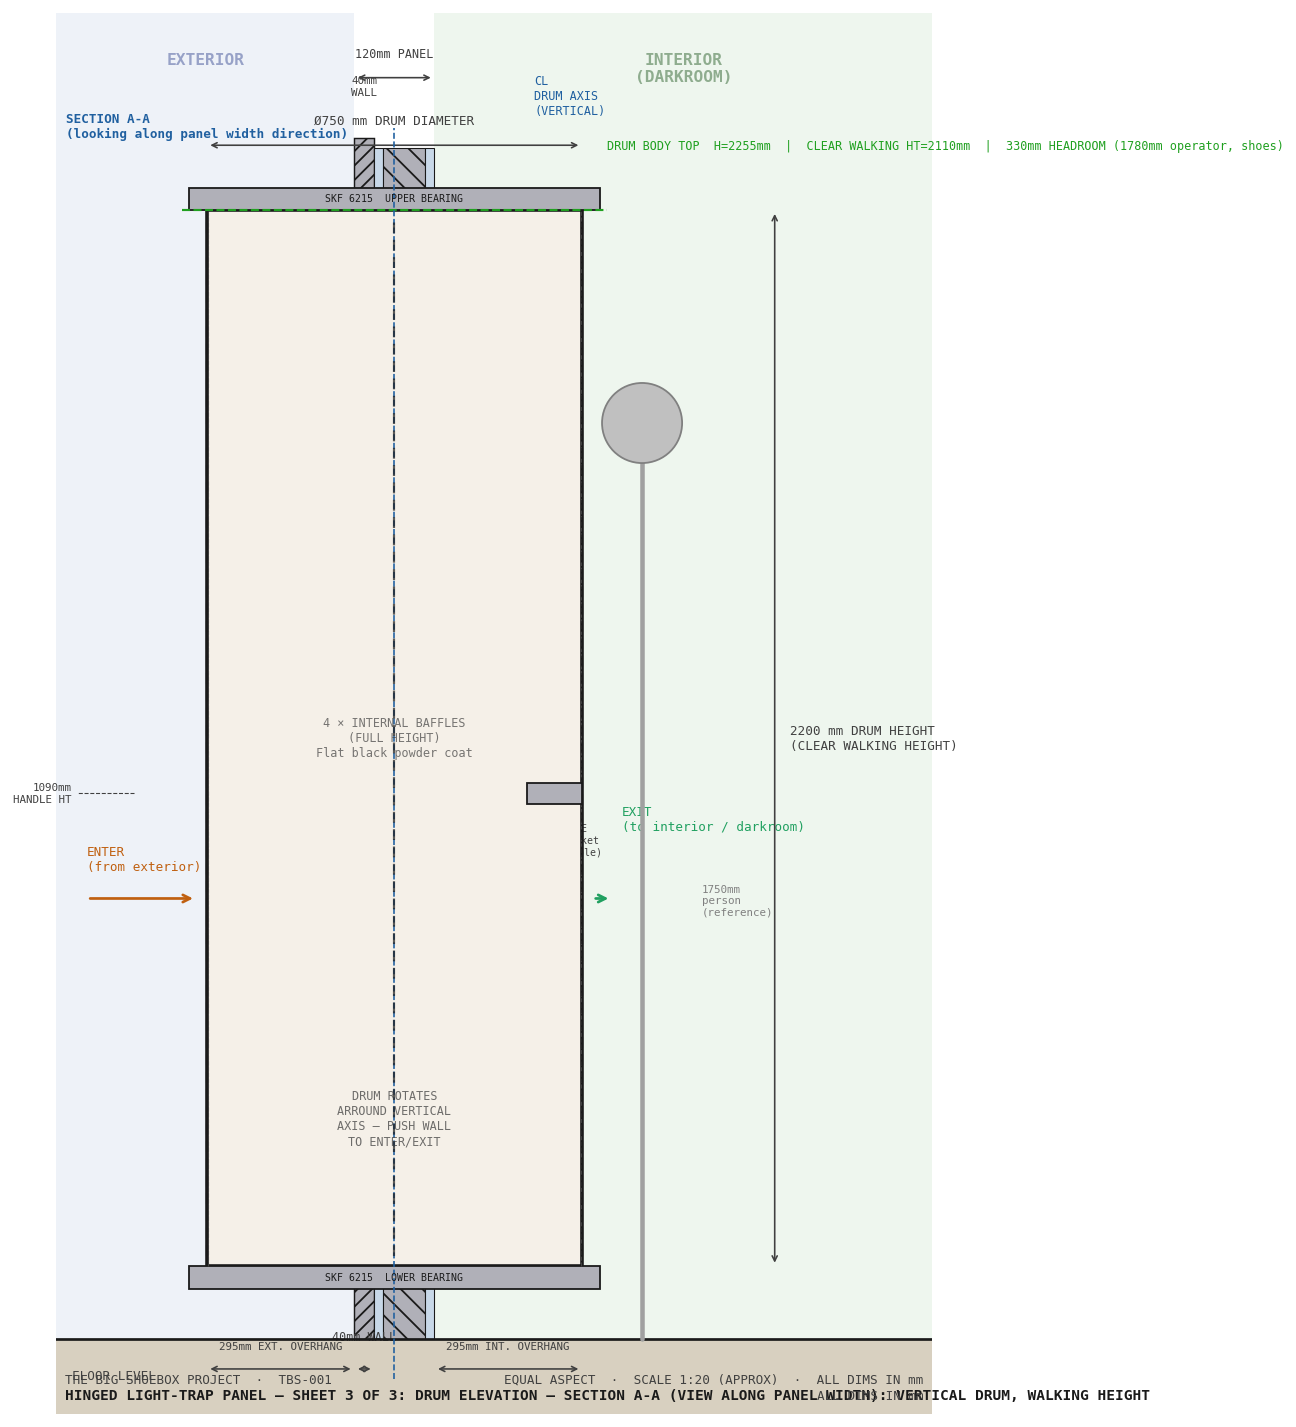
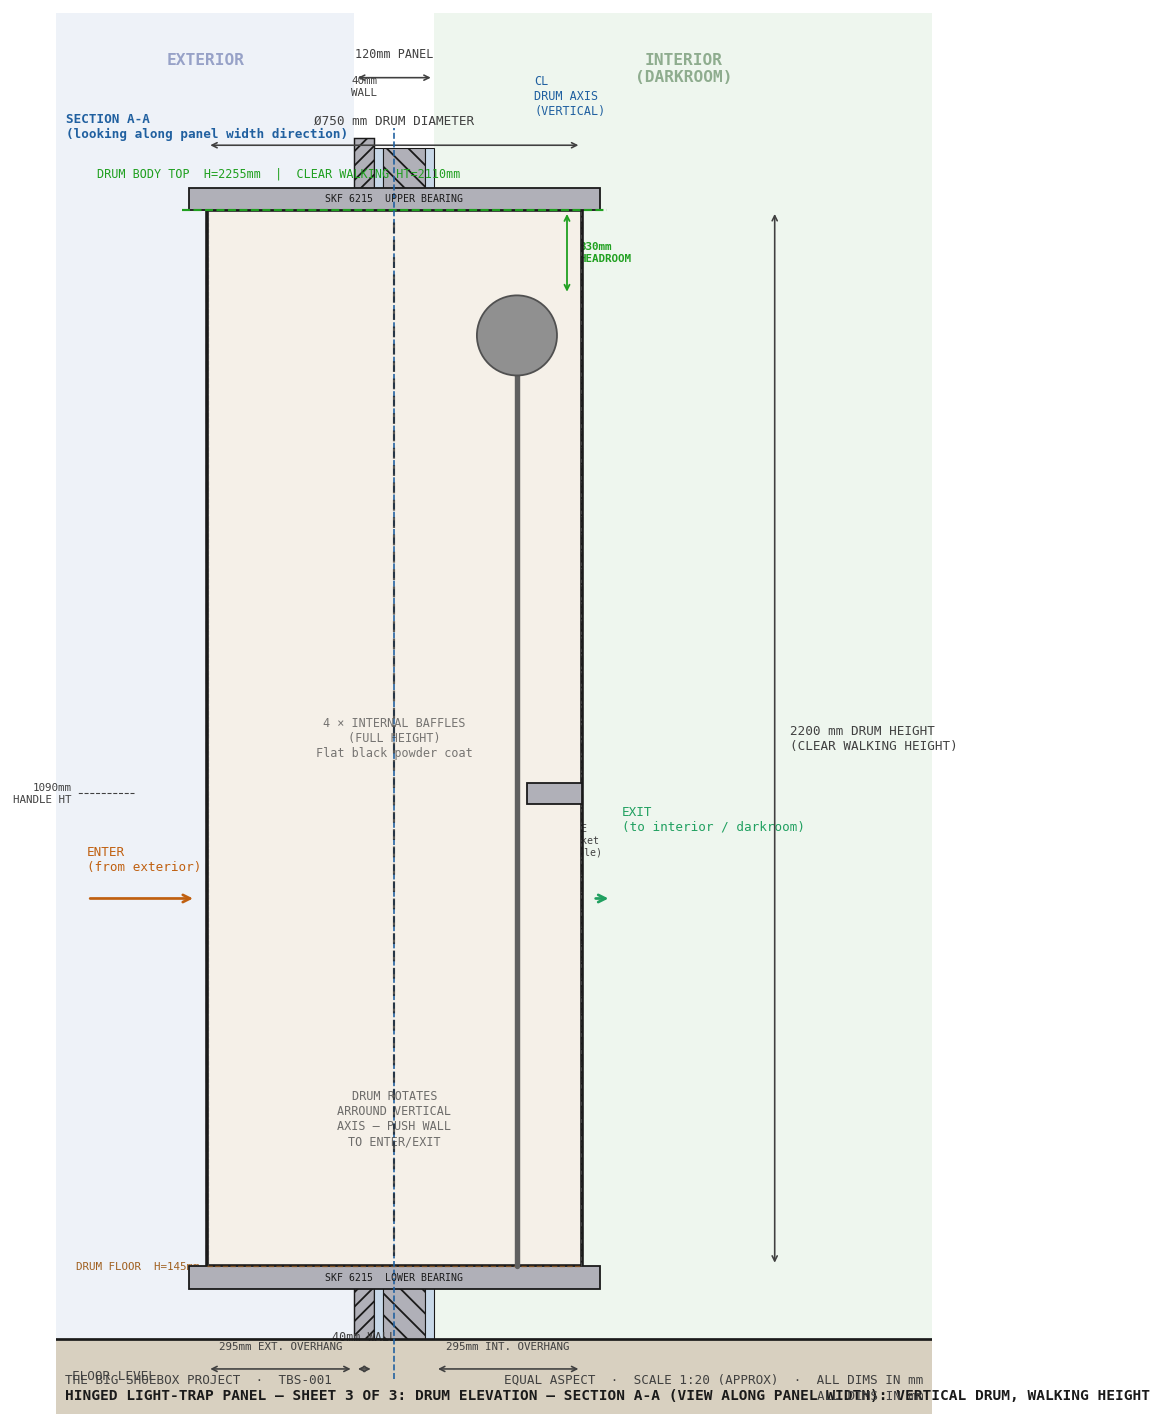
hingepanel-sheet3: show operator inside drum at drum floor level with headroom annotation
Person silhouette (1780mm, with shoes) now stands inside the drum with feet
at H_DRUM_BOT (145mm), headroom arrow shows 330mm gap to drum body ceiling.

diff --git a/generate_hingepanel_diagram.py b/generate_hingepanel_diagram.py
@@ -740,25 +740,48 @@ def sheet3():
     ax.text(hx + 55, H_HANDLE - HH / 2 - 40, "INT. HANDLE\n(welded bracket\nno through-hole)",
             ha="center", va="top", fontsize=5.5, color=C_DIM, **FONT)
 
-    # ── Person silhouette (simplified — 1750mm height line) ──────────────────
-    PERSON_H = 1750   # mm
-    PERSON_X = D_DEPTH_R + 120  # just to the right, inside container
-    ax.plot([PERSON_X, PERSON_X], [H_FLOOR, H_FLOOR + PERSON_H],
-            color="#A0A0A0", lw=2.5, zorder=4, solid_capstyle="round")
-    ax.add_patch(plt.Circle((PERSON_X, H_FLOOR + PERSON_H + 80), 80,
-                             fc="#C0C0C0", ec="#808080", lw=1.0, zorder=4))
-    ax.text(PERSON_X + 120, H_FLOOR + PERSON_H / 2,
-            "1750mm\nperson\n(reference)",
-            ha="left", va="center", fontsize=6, color="#808080", **FONT)
+    # ── Person silhouette — standing inside drum, feet at drum floor (H_DRUM_BOT) ──
+    PERSON_H = 1780   # mm — operator height with shoes
+    HEAD_R   = 80     # head circle radius
+    # Place person inside drum toward the interior wall, clear of centreline text
+    PERSON_X = D_DEPTH_R - 130
+    P_FOOT   = H_DRUM_BOT          # feet on drum floor (145mm above container floor)
+    P_HEAD   = P_FOOT + PERSON_H   # head top = 145 + 1780 = 1925mm
 
-    # ── Clearance headroom line ────────────────────────────────────────────────
+    # Drum floor level indicator (thin horizontal line across drum base)
+    ax.plot([D_DEPTH_L, D_DEPTH_R], [H_DRUM_BOT, H_DRUM_BOT],
+            color="#A06020", lw=0.8, ls="--", zorder=6, alpha=0.7)
+    ax.text(D_DEPTH_L - 15, H_DRUM_BOT,
+            f"DRUM FLOOR  H={H_DRUM_BOT}mm",
+            ha="right", va="center", fontsize=6, color="#A06020", **FONT)
+
+    # Person body (line) and head (circle)
+    ax.plot([PERSON_X, PERSON_X], [P_FOOT, P_HEAD],
+            color="#606060", lw=3.0, zorder=8, solid_capstyle="round")
+    ax.add_patch(plt.Circle((PERSON_X, P_HEAD + HEAD_R), HEAD_R,
+                             fc="#909090", ec="#505050", lw=1.0, zorder=8))
+
+    # Headroom gap: person head top → drum body ceiling
+    drum_body_h    = H_DRUM_TOP - H_DRUM_BOT
+    headroom_1780  = drum_body_h - PERSON_H
+    GAP_X = PERSON_X + HEAD_R + 20
+    ax.annotate("", xy=(GAP_X, H_DRUM_TOP), xytext=(GAP_X, P_HEAD + 2 * HEAD_R),
+                arrowprops=dict(arrowstyle="<->", color="#20A020", lw=1.0,
+                                mutation_scale=7), zorder=9)
+    ax.text(GAP_X + 25, (H_DRUM_TOP + P_HEAD + 2 * HEAD_R) / 2,
+            f"{headroom_1780}mm\nHEADROOM",
+            ha="left", va="center", fontsize=6, color="#20A020", fontweight="bold", **FONT)
+
+    # Label alongside person
+    ax.text(PERSON_X - HEAD_R - 15, P_FOOT + PERSON_H / 2,
+            f"{PERSON_H}mm\noperator\n(shoes)",
+            ha="right", va="center", fontsize=6, color="#505050", **FONT)
+
+    # ── Drum body ceiling line ────────────────────────────────────────────────
     ax.plot([D_DEPTH_L - 50, D_DEPTH_R + 50], [H_DRUM_TOP, H_DRUM_TOP],
             color="#20A020", lw=1.2, ls="--", zorder=6)
-    drum_body_h = H_DRUM_TOP - H_DRUM_BOT   # = DRUM_H - 2×BRG_HT = clear walking height
-    headroom_1780 = drum_body_h - 1780       # clearance for 1780mm operator (shoes)
-    ax.text(X_LO + 1100, H_DRUM_TOP + 115,
-            f"DRUM BODY TOP  H={H_DRUM_TOP}mm  |  CLEAR WALKING HT={drum_body_h}mm"
-            f"  |  {headroom_1780}mm HEADROOM (1780mm operator, shoes)",
+    ax.text(X_LO + 80, H_DRUM_TOP + 60,
+            f"DRUM BODY TOP  H={H_DRUM_TOP}mm  |  CLEAR WALKING HT={drum_body_h}mm",
             ha="left", va="bottom", fontsize=6.5, color="#20A020", **FONT)
 
     # ── Section A-A indicator ─────────────────────────────────────────────────
